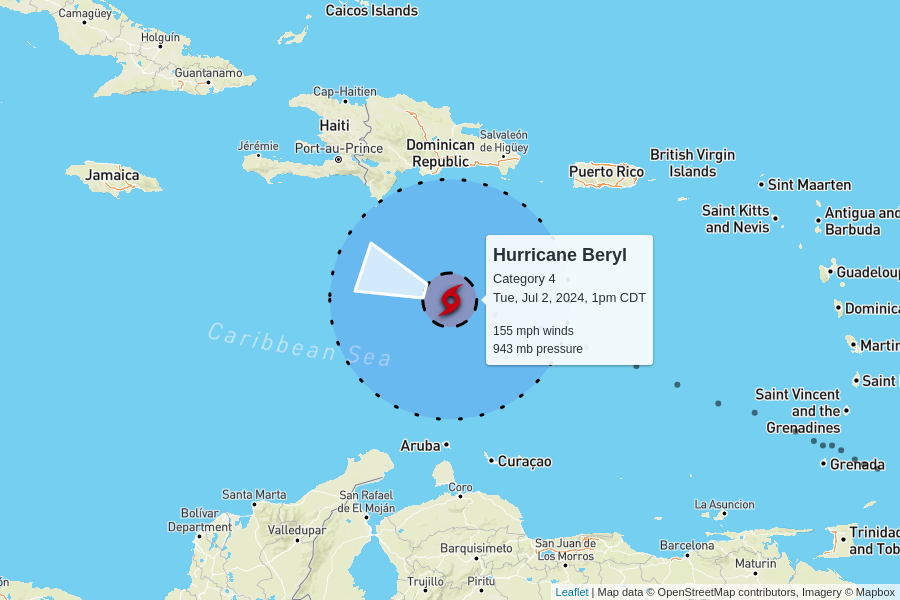
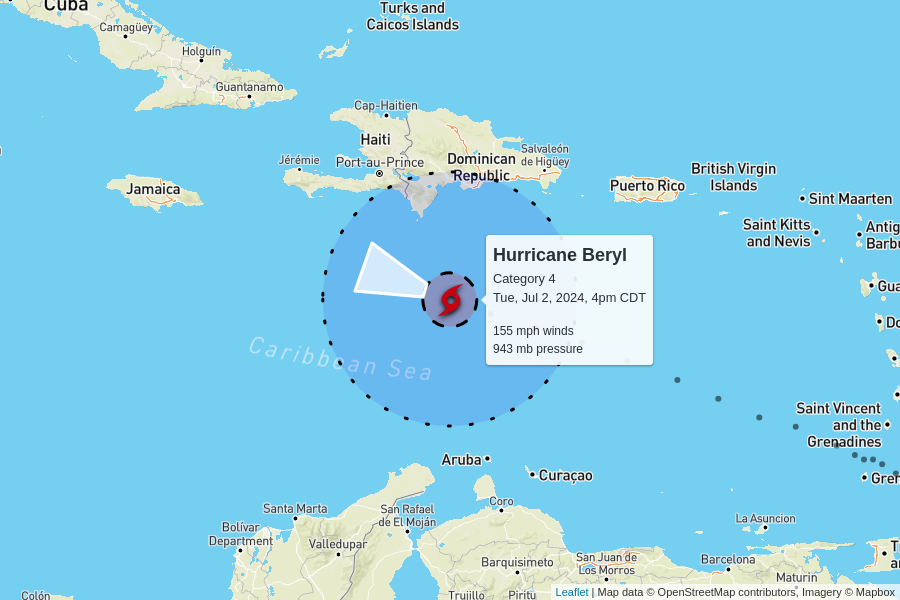
automatic update

diff --git a/docs/index.html b/docs/index.html
@@ -102,7 +102,7 @@
         <td colspan="6" class="storm category-4" >
           <h2>
             Hurricane Beryl - Category 4
-            <p class="updated">last updated <span data-time>2024-07-02T18:00:00.000Z</span></p>
+            <p class="updated">last updated <span data-time>2024-07-02T21:00:00.000Z</span></p>
           </h2>
         </td>
       </tr>
@@ -117,8 +117,8 @@
       </tr>
       <tr>
         <td class="spacer"></td>
-        <td>155 mph<br>-5 mph since last update</td>
-        <td>943 mb<br>+5 mb since last update</td>
+        <td>155 mph<br>0 mph since last update</td>
+        <td>943 mb<br>0 mb since last update</td>
         <td>
           22 mph to the west-northwest
           <br/>
